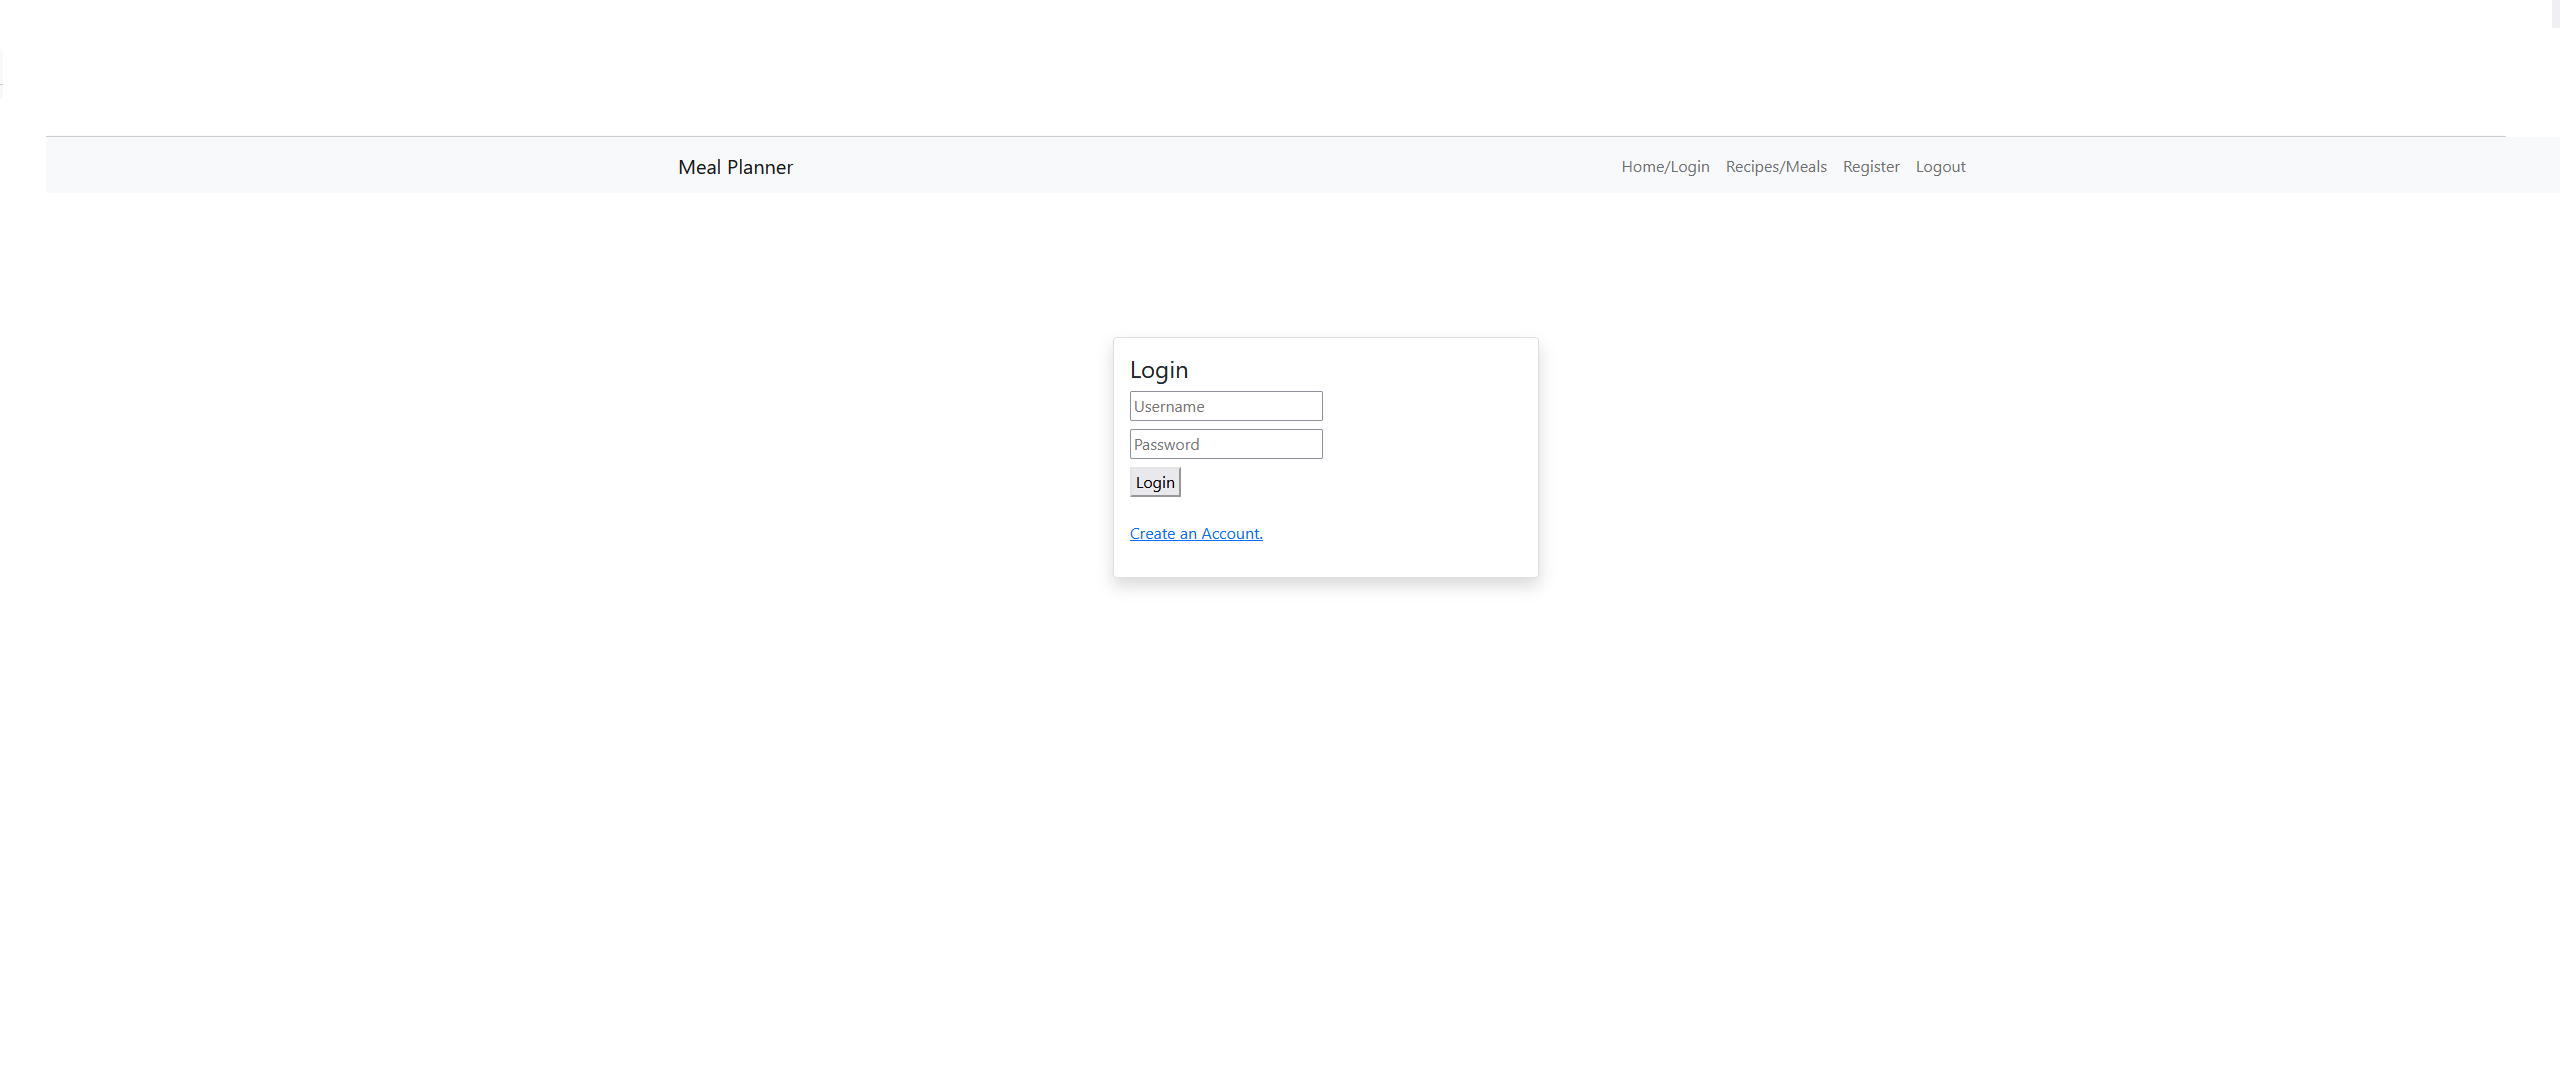
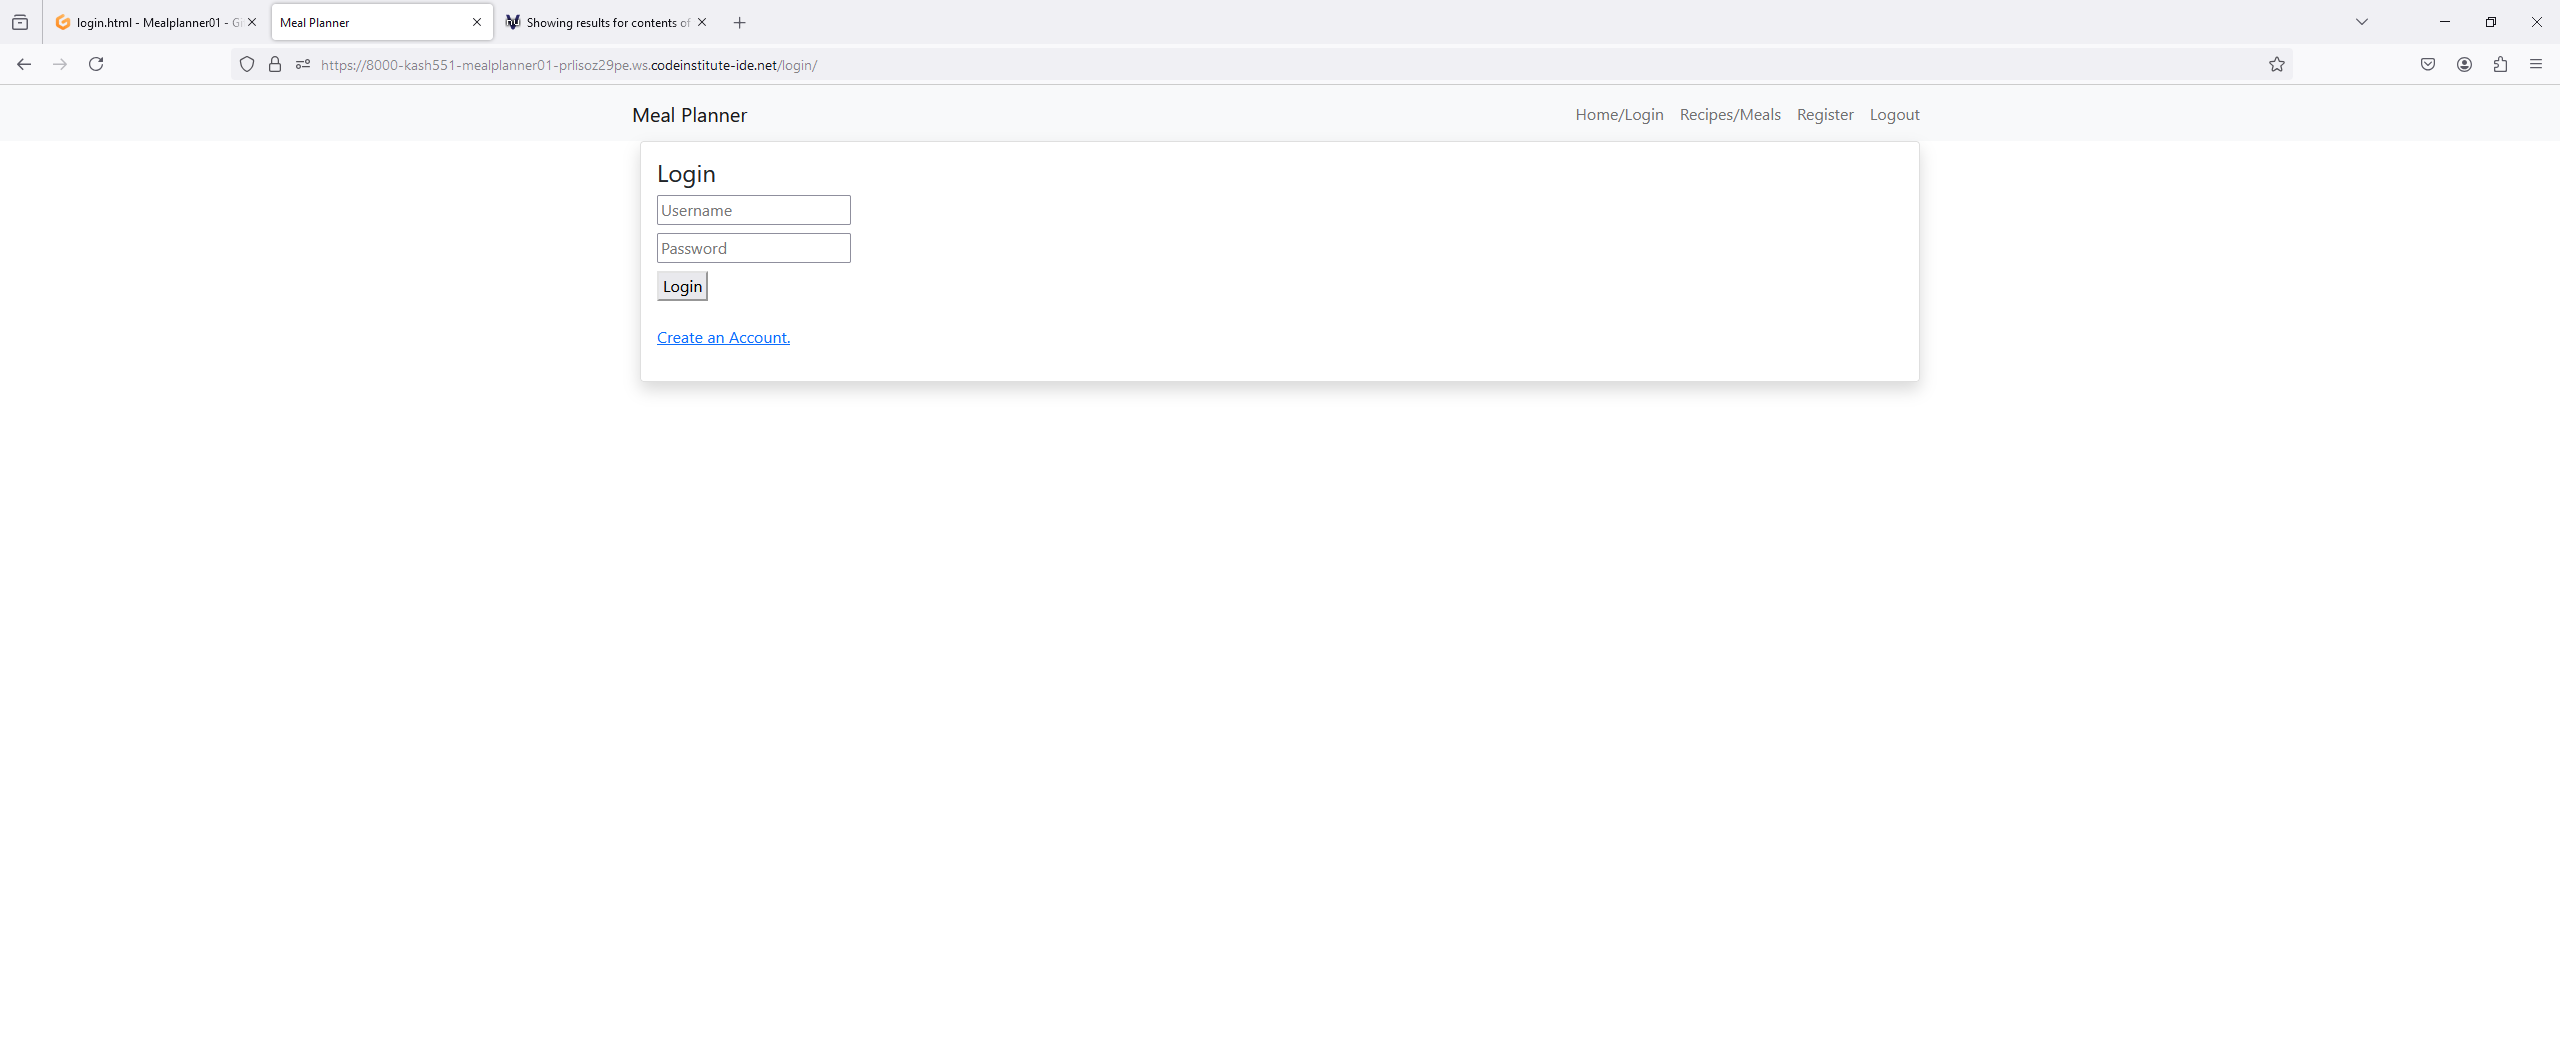
edited the login and register page for responsivity

diff --git a/home/templates/update_recipe.html b/home/templates/update_recipe.html
@@ -5,9 +5,9 @@
 <link href="https://maxcdn.bootstrapcdn.com/bootstrap/4.5.2/css/bootstrap.min.css" rel="stylesheet">
  
  
-<div class="container mt-5 col-5">
+<div class="container mt-5">
  
-  <form class="col-6 mx-auto card p-3 shadow-lg" method="post" enctype="multipart/form-data">
+  <form class="col-sm-12 col-md-6 mx-auto card p-3 shadow-lg" method="post" enctype="multipart/form-data">
     {% csrf_token %}
  
     

diff --git a/home/templates/register.html b/home/templates/register.html
@@ -1,7 +1,7 @@
 {% extends 'base.html' %}
 {% block start %}
 
-		<div class="container bg-white mx-auto col-md-2 card shadow p-3">
+		<div class="container bg-white mx-auto col-md-6 card shadow p-3">
 			<div class="login-form">
 				{% if messages %}
 				{% for message in messages %}

diff --git a/home/templates/login.html b/home/templates/login.html
@@ -1,7 +1,7 @@
 {% extends 'base.html' %}
 {% block start %}
 
-	<div class="container bg-white col-md-2 card shadow p-3 " id="log">
+	<div class="container bg-white col-md-6 card shadow p-3 " id="log">
 		<div class="login-form">
 			{% if messages %}
 			{% for message in messages %}
